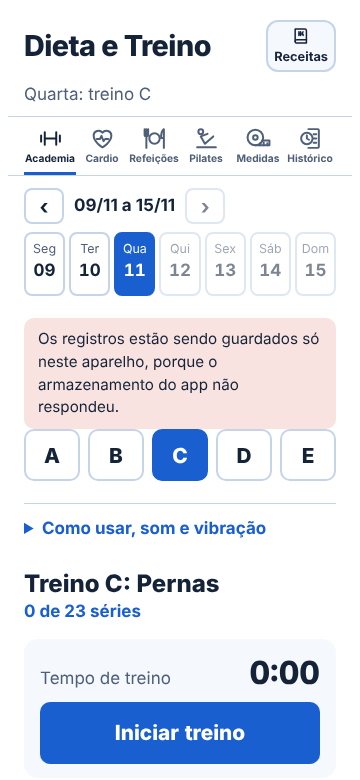
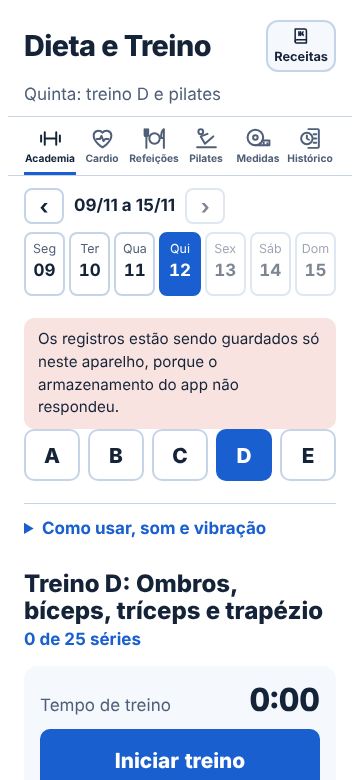
Aviso de descanso por notificação push, mesmo com o app em segundo plano
Claude-Session: https://claude.ai/code/session_014kVGS7pXTcmJc8xNxNUoYz

diff --git a/public/index.html b/public/index.html
@@ -357,6 +357,8 @@ footer .col { display: grid; gap: 10px; }
     <p class="lede">Use GIF ou Animação para ver o movimento de cada exercício. Ajuste a carga se precisar. Ela fica salva quando você marca a primeira série. Em cada exercício, termine com 1 a 2 repetições sobrando. Se as repetições caírem, ajuste o campo Reps antes de marcar a série.</p>
     <div class="photo-row"><button type="button" class="howbtn" id="test-alert">Testar som e vibração</button><span class="tip" id="test-msg" aria-live="polite"></span></div>
     <div class="vol"><label for="alert-vol">Volume do alerta: <b id="alert-vol-n"></b></label><input type="range" id="alert-vol" min="0" max="100" step="10"></div>
+    <div class="photo-row"><button type="button" class="howbtn" id="push-on">Ativar aviso com o app em segundo plano</button><span class="tip" id="push-msg" aria-live="polite"></span></div>
+    <p class="tip">O aviso chega como notificação, com vibração, mesmo vendo vídeo ou com a tela bloqueada. Pode atrasar 1 a 3 segundos.</p>
     </details>
     <div id="gym"></div>
   </section>
@@ -1276,27 +1278,43 @@ window.MOVES = (function () {
   /* Cronômetro do treino e descanso */
   var Rest = (function () {
     var end = 0, t = null, then = null;
+    function agenda() { if (window.AlertaPush) window.AlertaPush.agendar(end, 'Descanso acabou', 'Hora da próxima série.'); }
     function hide() {
       clearInterval(t); t = null; $('rest').hidden = true;
+      if (window.AlertaPush && Date.now() < end - 1500) window.AlertaPush.cancelar();
       var f = then; then = null; if (f) f();
     }
     function tick() {
       var left = Math.ceil((end - Date.now()) / 1000);
+      // Com o app na tela, o alerta toca aqui mesmo; cancela a notificação para não duplicar.
+      if (left <= 4 && document.visibilityState === 'visible' && window.AlertaPush) window.AlertaPush.cancelar();
       if (left <= 0) { window.Fig.alert(); hide(); return; }
       $('rest-time').textContent = clock(left);
     }
-    $('rest-add').addEventListener('click', function () { end += 15000; tick(); });
+    $('rest-add').addEventListener('click', function () { end += 15000; tick(); agenda(); });
     $('rest-skip').addEventListener('click', hide);
     return { start: function (sec, after) {
       window.Fig.prep();
       then = after || null;
       end = Date.now() + sec * 1000;
+      agenda();
       $('rest').hidden = false;
       if (!t) t = setInterval(tick, 250);
       tick();
     } };
   })();
   window.Rest = Rest;
+  (function () {
+    var b = $('push-on'), m = $('push-msg');
+    if (!b) return;
+    function estado() {
+      if (!window.AlertaPush || !window.AlertaPush.disponivel()) { m.textContent = 'Este navegador não permite avisos em segundo plano.'; b.hidden = true; return; }
+      var p = window.AlertaPush.permissao();
+      m.textContent = p === 'granted' ? 'Ativado.' : p === 'denied' ? 'Bloqueado nas configurações do navegador. Libere as notificações do site para ativar.' : '';
+    }
+    b.addEventListener('click', function () { m.textContent = 'Ativando...'; window.AlertaPush.ativar().then(function () { estado(); }, function () { m.textContent = 'Não consegui ativar agora.'; }); });
+    setTimeout(estado, 1500);
+  })();
 
   var nowId = null;
   window.goNext = function (el, isDone) {

diff --git a/public/plataforma.js b/public/plataforma.js
@@ -282,6 +282,54 @@
     });
   }
 
+  /* Aviso de descanso por notificação (funciona com o app em segundo plano) */
+  function b64(u) { var p = '='.repeat((4 - u.length % 4) % 4), s = atob((u + p).replace(/-/g, '+').replace(/_/g, '/')), a = new Uint8Array(s.length); for (var i = 0; i < s.length; i++) a[i] = s.charCodeAt(i); return a; }
+  var alertaAtual = null, inscritoP = null;
+  function inscrever() {
+    if (inscritoP) return inscritoP;
+    inscritoP = Promise.all([cliente(), config(), navigator.serviceWorker.ready]).then(function (r) {
+      var sb = r[0], cfg = r[1], reg = r[2];
+      if (!cfg.vapidPublic || !reg.pushManager) throw new Error('sem push');
+      return reg.pushManager.getSubscription().then(function (sub) {
+        return sub || reg.pushManager.subscribe({ userVisibleOnly: true, applicationServerKey: b64(cfg.vapidPublic) });
+      }).then(function (sub) {
+        var j = sub.toJSON();
+        return sb.from('push_inscricoes').upsert({ endpoint: j.endpoint, p256dh: j.keys.p256dh, auth: j.keys.auth }).then(function (x) { if (x.error) throw x.error; return true; });
+      });
+    });
+    inscritoP.catch(function () { inscritoP = null; });
+    return inscritoP;
+  }
+  window.AlertaPush = {
+    disponivel: function () { return 'Notification' in window && 'serviceWorker' in navigator && 'PushManager' in window; },
+    permissao: function () { return 'Notification' in window ? Notification.permission : 'denied'; },
+    ativar: function () {
+      if (!window.AlertaPush.disponivel()) return Promise.resolve('indisponivel');
+      return Notification.requestPermission().then(function (p) { return p === 'granted' ? inscrever().then(function () { return 'ok'; }) : p; });
+    },
+    agendar: function (quando, titulo, corpo) {
+      if (!window.AlertaPush.disponivel()) return;
+      var pedir = Notification.permission === 'default' ? Notification.requestPermission() : Promise.resolve(Notification.permission);
+      var meu = {};
+      window.AlertaPush.cancelar();
+      alertaAtual = meu;
+      pedir.then(function (p) {
+        if (p !== 'granted' || alertaAtual !== meu) return;
+        return inscrever().then(function () { return cliente(); }).then(function (sb) {
+          return sb.from('alertas').insert({ dispara_em: new Date(quando).toISOString(), titulo: titulo, corpo: corpo || null }).select('id').single();
+        }).then(function (r) {
+          if (r && r.data) meu.id = r.data.id;
+          if (alertaAtual !== meu && meu.id) cancelaId(meu.id);
+        });
+      }).catch(function () {});
+    },
+    cancelar: function () {
+      var a = alertaAtual; alertaAtual = null;
+      if (a && a.id) cancelaId(a.id);
+    }
+  };
+  function cancelaId(id) { cliente().then(function (sb) { return sb.from('alertas').delete().eq('id', id); }).catch(function () {}); }
+
   var servicos = null;
   function prontos() {
     if (!servicos) servicos = Promise.all([cliente(), sessao()]).then(function (r) {

diff --git a/public/sw.js b/public/sw.js
@@ -1,6 +1,6 @@
 // Service worker: guarda a página e os arquivos estáticos para abrir rápido e com sinal fraco.
 // Dados e IA sempre vão para a rede.
-const CACHE = 'dieta-treino-v1';
+const CACHE = 'dieta-treino-v2';
 const BASE = ['/', '/index.html', '/plataforma.js', '/manifest.webmanifest', '/icons/icon-192.png', '/icons/icon-512.png'];
 
 self.addEventListener('install', (e) => {
@@ -22,4 +22,31 @@ self.addEventListener('fetch', (e) => {
       return r;
     }).catch(() => caches.match(e.request).then((r) => r || caches.match('/index.html')))
   );
+});
+
+// Aviso de descanso vindo do servidor, mesmo com o app em segundo plano.
+self.addEventListener('push', (e) => {
+  let d = {};
+  try { d = e.data ? e.data.json() : {}; } catch (x) { d = { titulo: 'Descanso acabou' }; }
+  e.waitUntil(self.clients.matchAll({ type: 'window', includeUncontrolled: true }).then((cs) => {
+    // Se o app está aberto na tela, ele mesmo já toca o alerta.
+    if (cs.some((c) => c.visibilityState === 'visible')) return;
+    return self.registration.showNotification(d.titulo || 'Descanso acabou', {
+      body: d.corpo || 'Hora da próxima série.',
+      tag: d.tag || 'descanso',
+      renotify: true,
+      requireInteraction: false,
+      vibrate: [900, 150, 900, 150, 900],
+      icon: '/icons/icon-192.png',
+      badge: '/icons/icon-192.png',
+      timestamp: Date.now()
+    });
+  }));
+});
+self.addEventListener('notificationclick', (e) => {
+  e.notification.close();
+  e.waitUntil(self.clients.matchAll({ type: 'window', includeUncontrolled: true }).then((cs) => {
+    const c = cs[0];
+    return c ? c.focus() : self.clients.openWindow('/#academia');
+  }));
 });

diff --git a/api/push-enviar.js b/api/push-enviar.js
@@ -1,0 +1,26 @@
+// Chamado pelo banco (pg_cron) quando um aviso de descanso vence. Envia a notificação para o celular.
+import webpush from 'web-push';
+import { env, responde, corpo, banco, rota } from './_lib.js';
+
+export default rota(async (req, res) => {
+  if (req.headers['x-cron-secret'] !== env('CRON_SECRET')) return responde(res, 403, { erro: 'segredo' });
+  const { ids = [] } = await corpo(req);
+  if (!ids.length) return responde(res, 200, { enviados: 0 });
+  webpush.setVapidDetails('mailto:' + env('EMAILS_PERMITIDOS').split(',')[0].trim(), env('VAPID_PUBLIC'), env('VAPID_PRIVATE'));
+  const alertas = await banco('alertas?select=id,user_id,titulo,corpo,dispara_em&id=in.(' + ids.join(',') + ')');
+  let enviados = 0;
+  for (const a of alertas) {
+    const subs = await banco('push_inscricoes?select=endpoint,p256dh,auth&user_id=eq.' + a.user_id);
+    const msg = JSON.stringify({ titulo: a.titulo, corpo: a.corpo || '', tag: 'descanso', quando: a.dispara_em });
+    await Promise.all(subs.map(async (s) => {
+      try {
+        await webpush.sendNotification({ endpoint: s.endpoint, keys: { p256dh: s.p256dh, auth: s.auth } }, msg, { TTL: 60, urgency: 'high' });
+        enviados++;
+      } catch (e) {
+        if (e.statusCode === 404 || e.statusCode === 410) await banco('push_inscricoes?endpoint=eq.' + encodeURIComponent(s.endpoint), { method: 'DELETE', headers: { Prefer: 'return=minimal' } });
+        else console.error('push', e.statusCode, e.body);
+      }
+    }));
+  }
+  responde(res, 200, { enviados });
+});

diff --git a/api/config.js b/api/config.js
@@ -8,6 +8,7 @@ export default rota(async (req, res) => {
     supabaseUrl: env('SUPABASE_URL'), supabaseAnonKey: env('SUPABASE_ANON_KEY'),
     // Preço por milhão de tokens em US$, para a estimativa de custo. Confira em anthropic.com/pricing e ajuste no Vercel.
     precoEntrada: Number(process.env.PRECO_ENTRADA_MTOK || 3), precoSaida: Number(process.env.PRECO_SAIDA_MTOK || 15),
-    cotacaoDolar: Number(process.env.COTACAO_DOLAR || 0) || null
+    cotacaoDolar: Number(process.env.COTACAO_DOLAR || 0) || null,
+    vapidPublic: process.env.VAPID_PUBLIC || null
   });
 });
